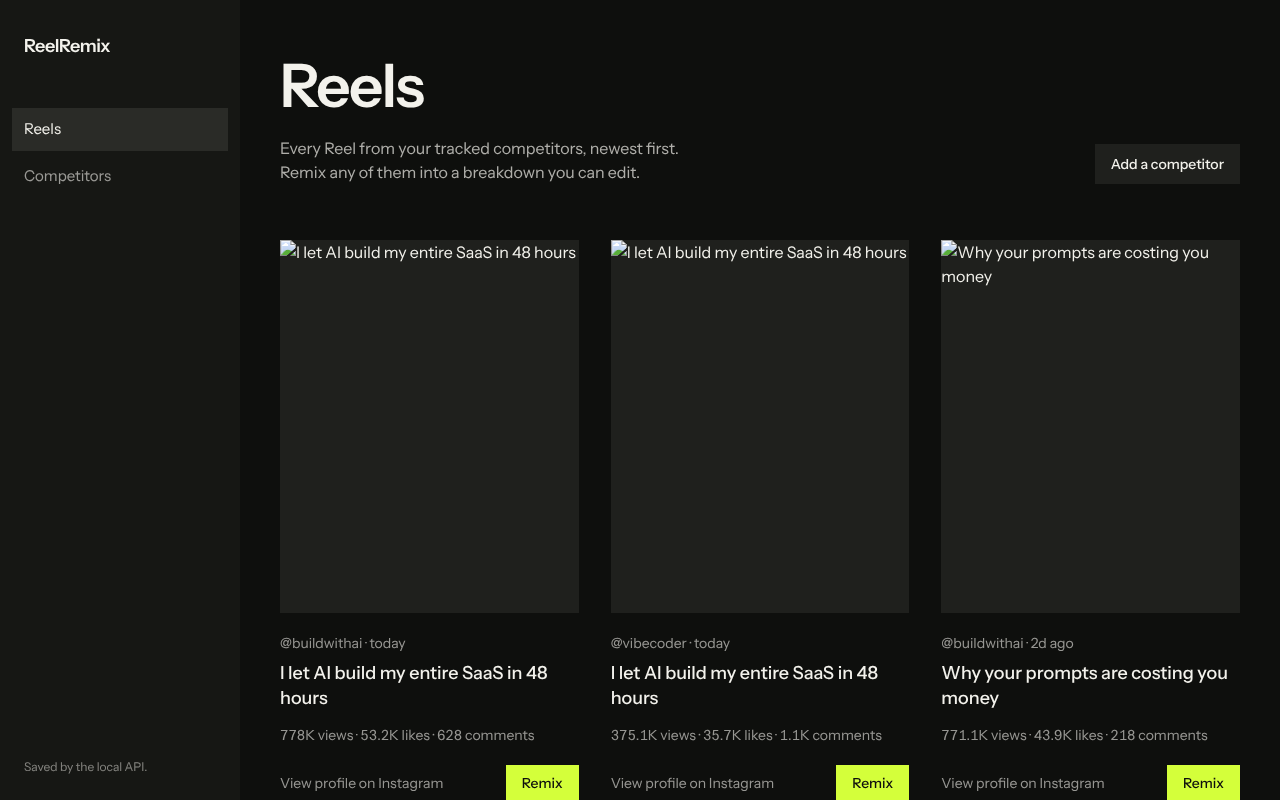
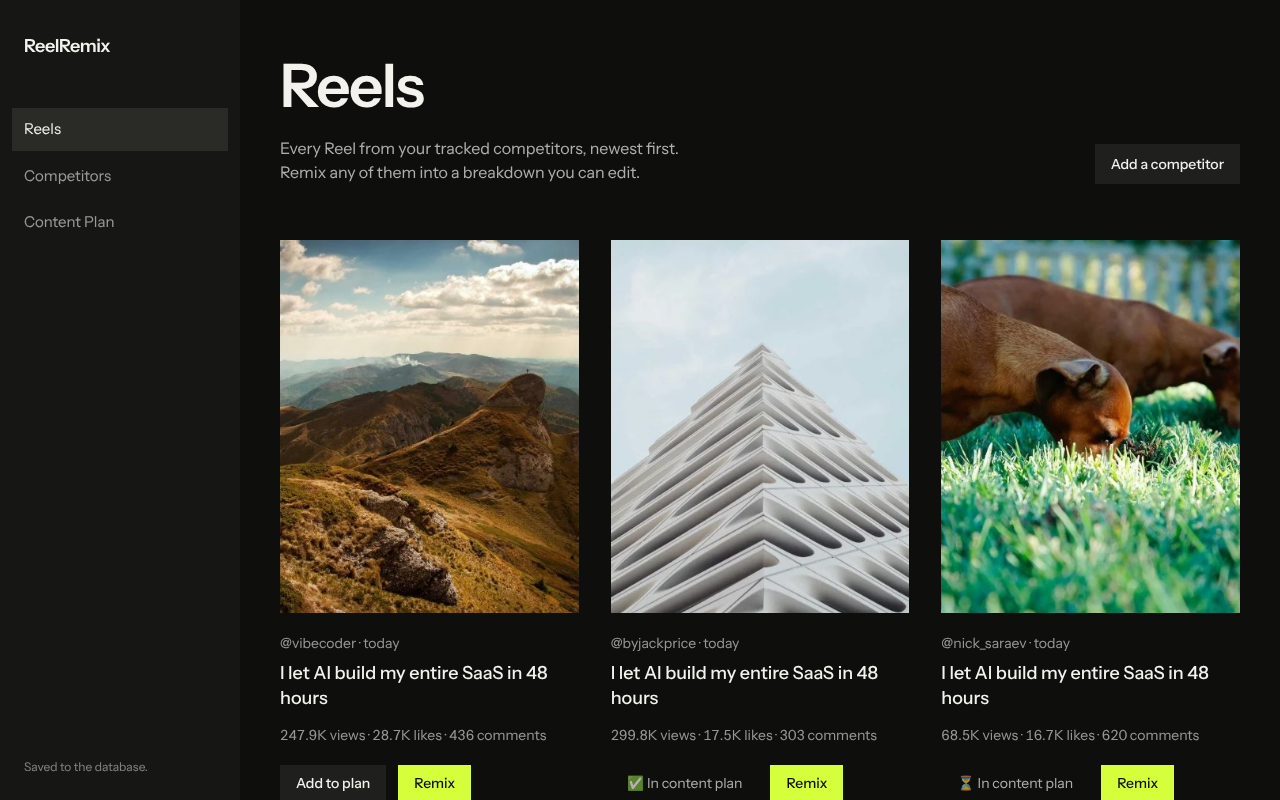
Retake README screenshots with the Content Plan and sample photos
The previous screenshots predated the Content Plan, and their thumbnails
were blank. The new captures show the sample photos, the Add to plan and
status controls, and a Content plan screen. The README table now has
four columns.

Claude-Session: https://claude.ai/code/session_01RFG5qYE1ff9sFUARwabbty

diff --git a/README.md b/README.md
@@ -9,9 +9,9 @@ Track Instagram competitors, pull their 20 most recent Reels into a library, and
 
 ## Screenshots
 
-| Reels library | Competitors | Remix editor |
-| --- | --- | --- |
-| ![Reels library](docs/screenshots/dashboard.png) | ![Competitors](docs/screenshots/competitors.png) | ![Remix editor](docs/screenshots/remix.png) |
+| Reels | Competitors | Content plan | Remix editor |
+| --- | --- | --- | --- |
+| ![Reels](docs/screenshots/dashboard.png) | ![Competitors](docs/screenshots/competitors.png) | ![Content plan](docs/screenshots/content-plan.png) | ![Remix editor](docs/screenshots/remix.png) |
 
 ## Run it locally
 
